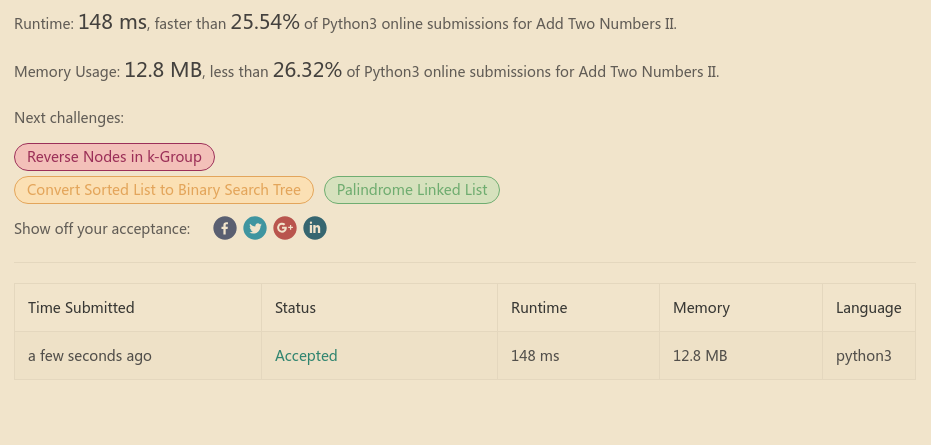
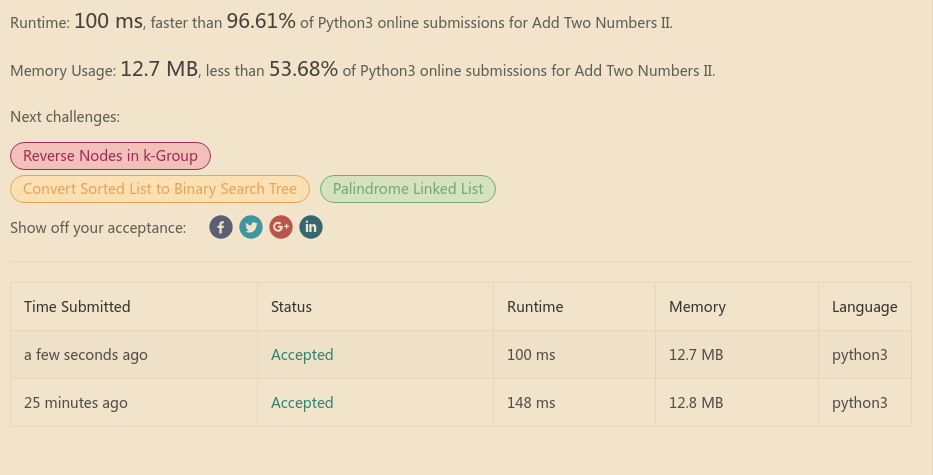
Add Two Numbers II(Problem 445 - AC)(optimization)

diff --git a/leetcode/445/Add Two Numbers II.py b/leetcode/445/Add Two Numbers II.py
@@ -42,14 +42,15 @@ class Solution:
         while stack1 or stack2:
             v1 = stack1.pop() if stack1 else 0
             v2 = stack2.pop() if stack2 else 0
-            new_node = ListNode((v1 + v2 + remaining) % 10)
-            remaining = (v1 + v2 + remaining) // 10
+            result = v1 + v2 + remaining
+            new_node = ListNode(result % 10)
+            remaining = result // 10
             new_node.next = next_node
             next_node = new_node
-        if remaining:
-            new_node = ListNode(remaining)
-            new_node.next = next_node
-            next_node = new_node
+            if remaining and not stack1 and not stack2:
+                new_node = ListNode(remaining)
+                new_node.next = next_node
+                next_node = new_node
         return next_node
 
 

diff --git a/leetcode/readme.md b/leetcode/readme.md
@@ -80,4 +80,4 @@ Python3
 |76|240|Search a 2D Matrix|Py3|Medium|0.9533|
 |77|154|Find Minimum in Rotated Sorted Array II|Py3|Hard|0.1478|
 |78|390|Elimination Game|Py3|Medium|0.4063*|
-|79|445|Add Two Numbers II|Py3|Medium|0.2554|
+|79|445|Add Two Numbers II|Py3|Medium|0.9661|
